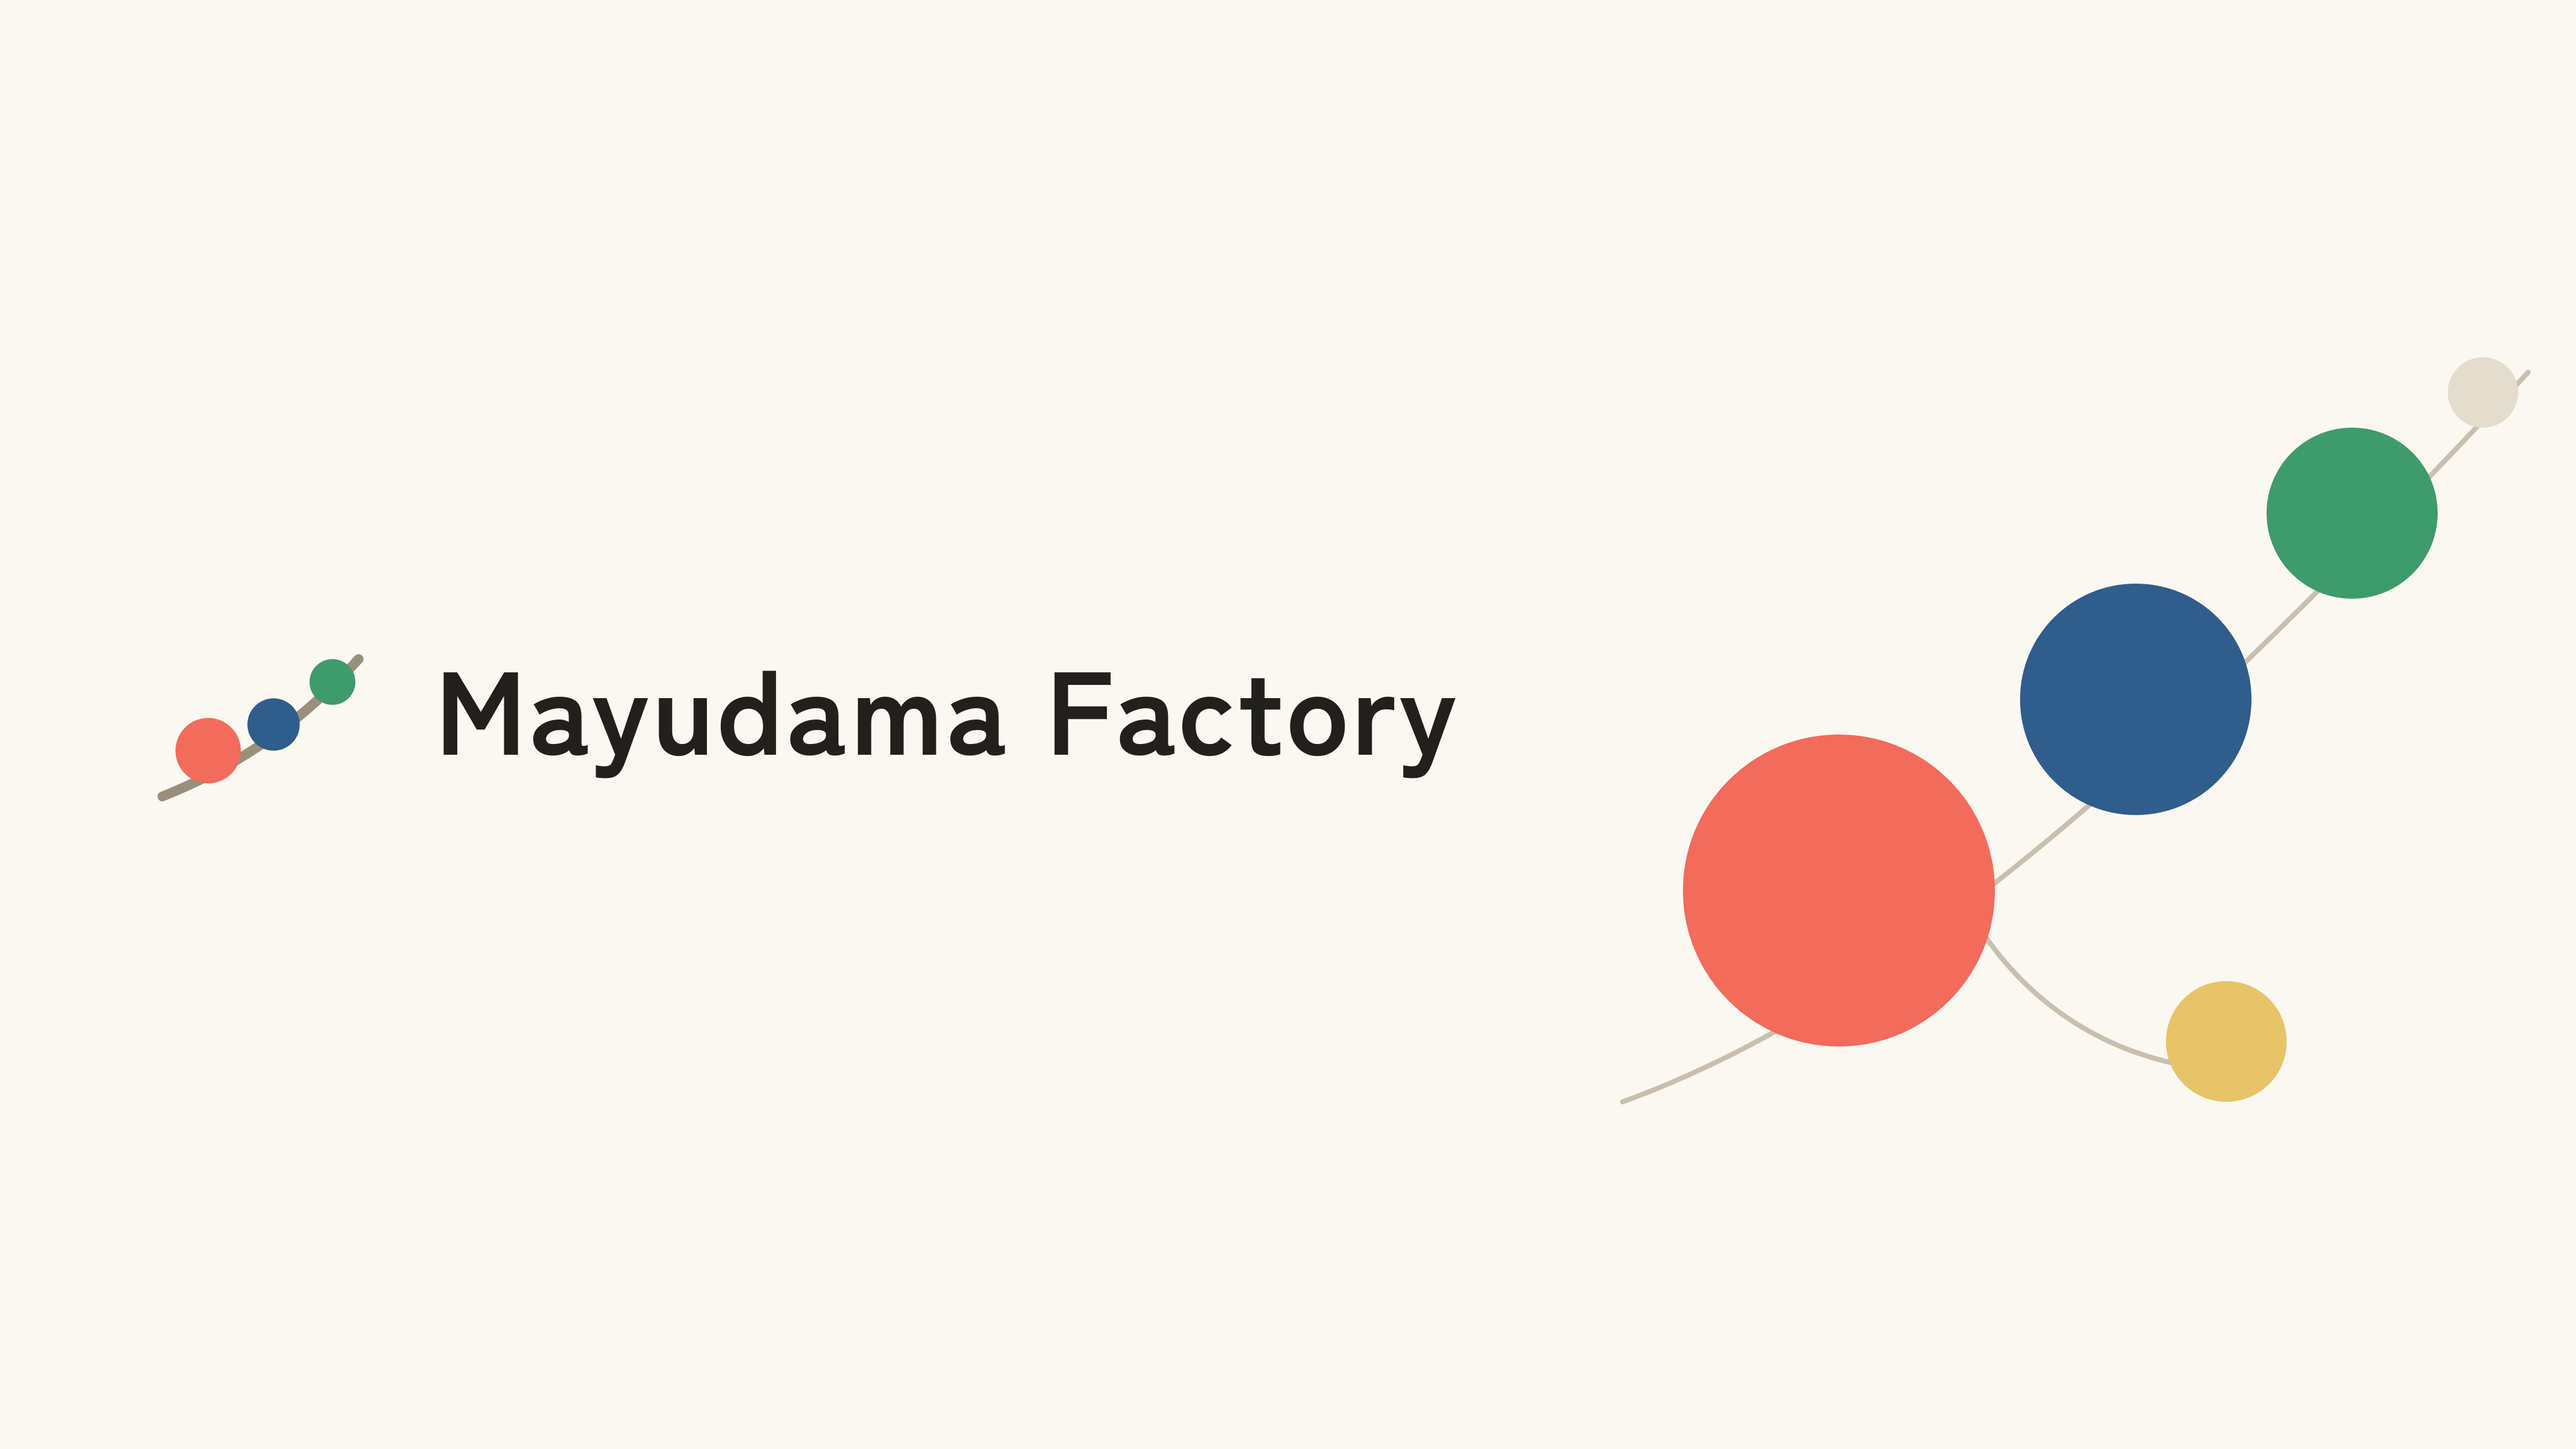
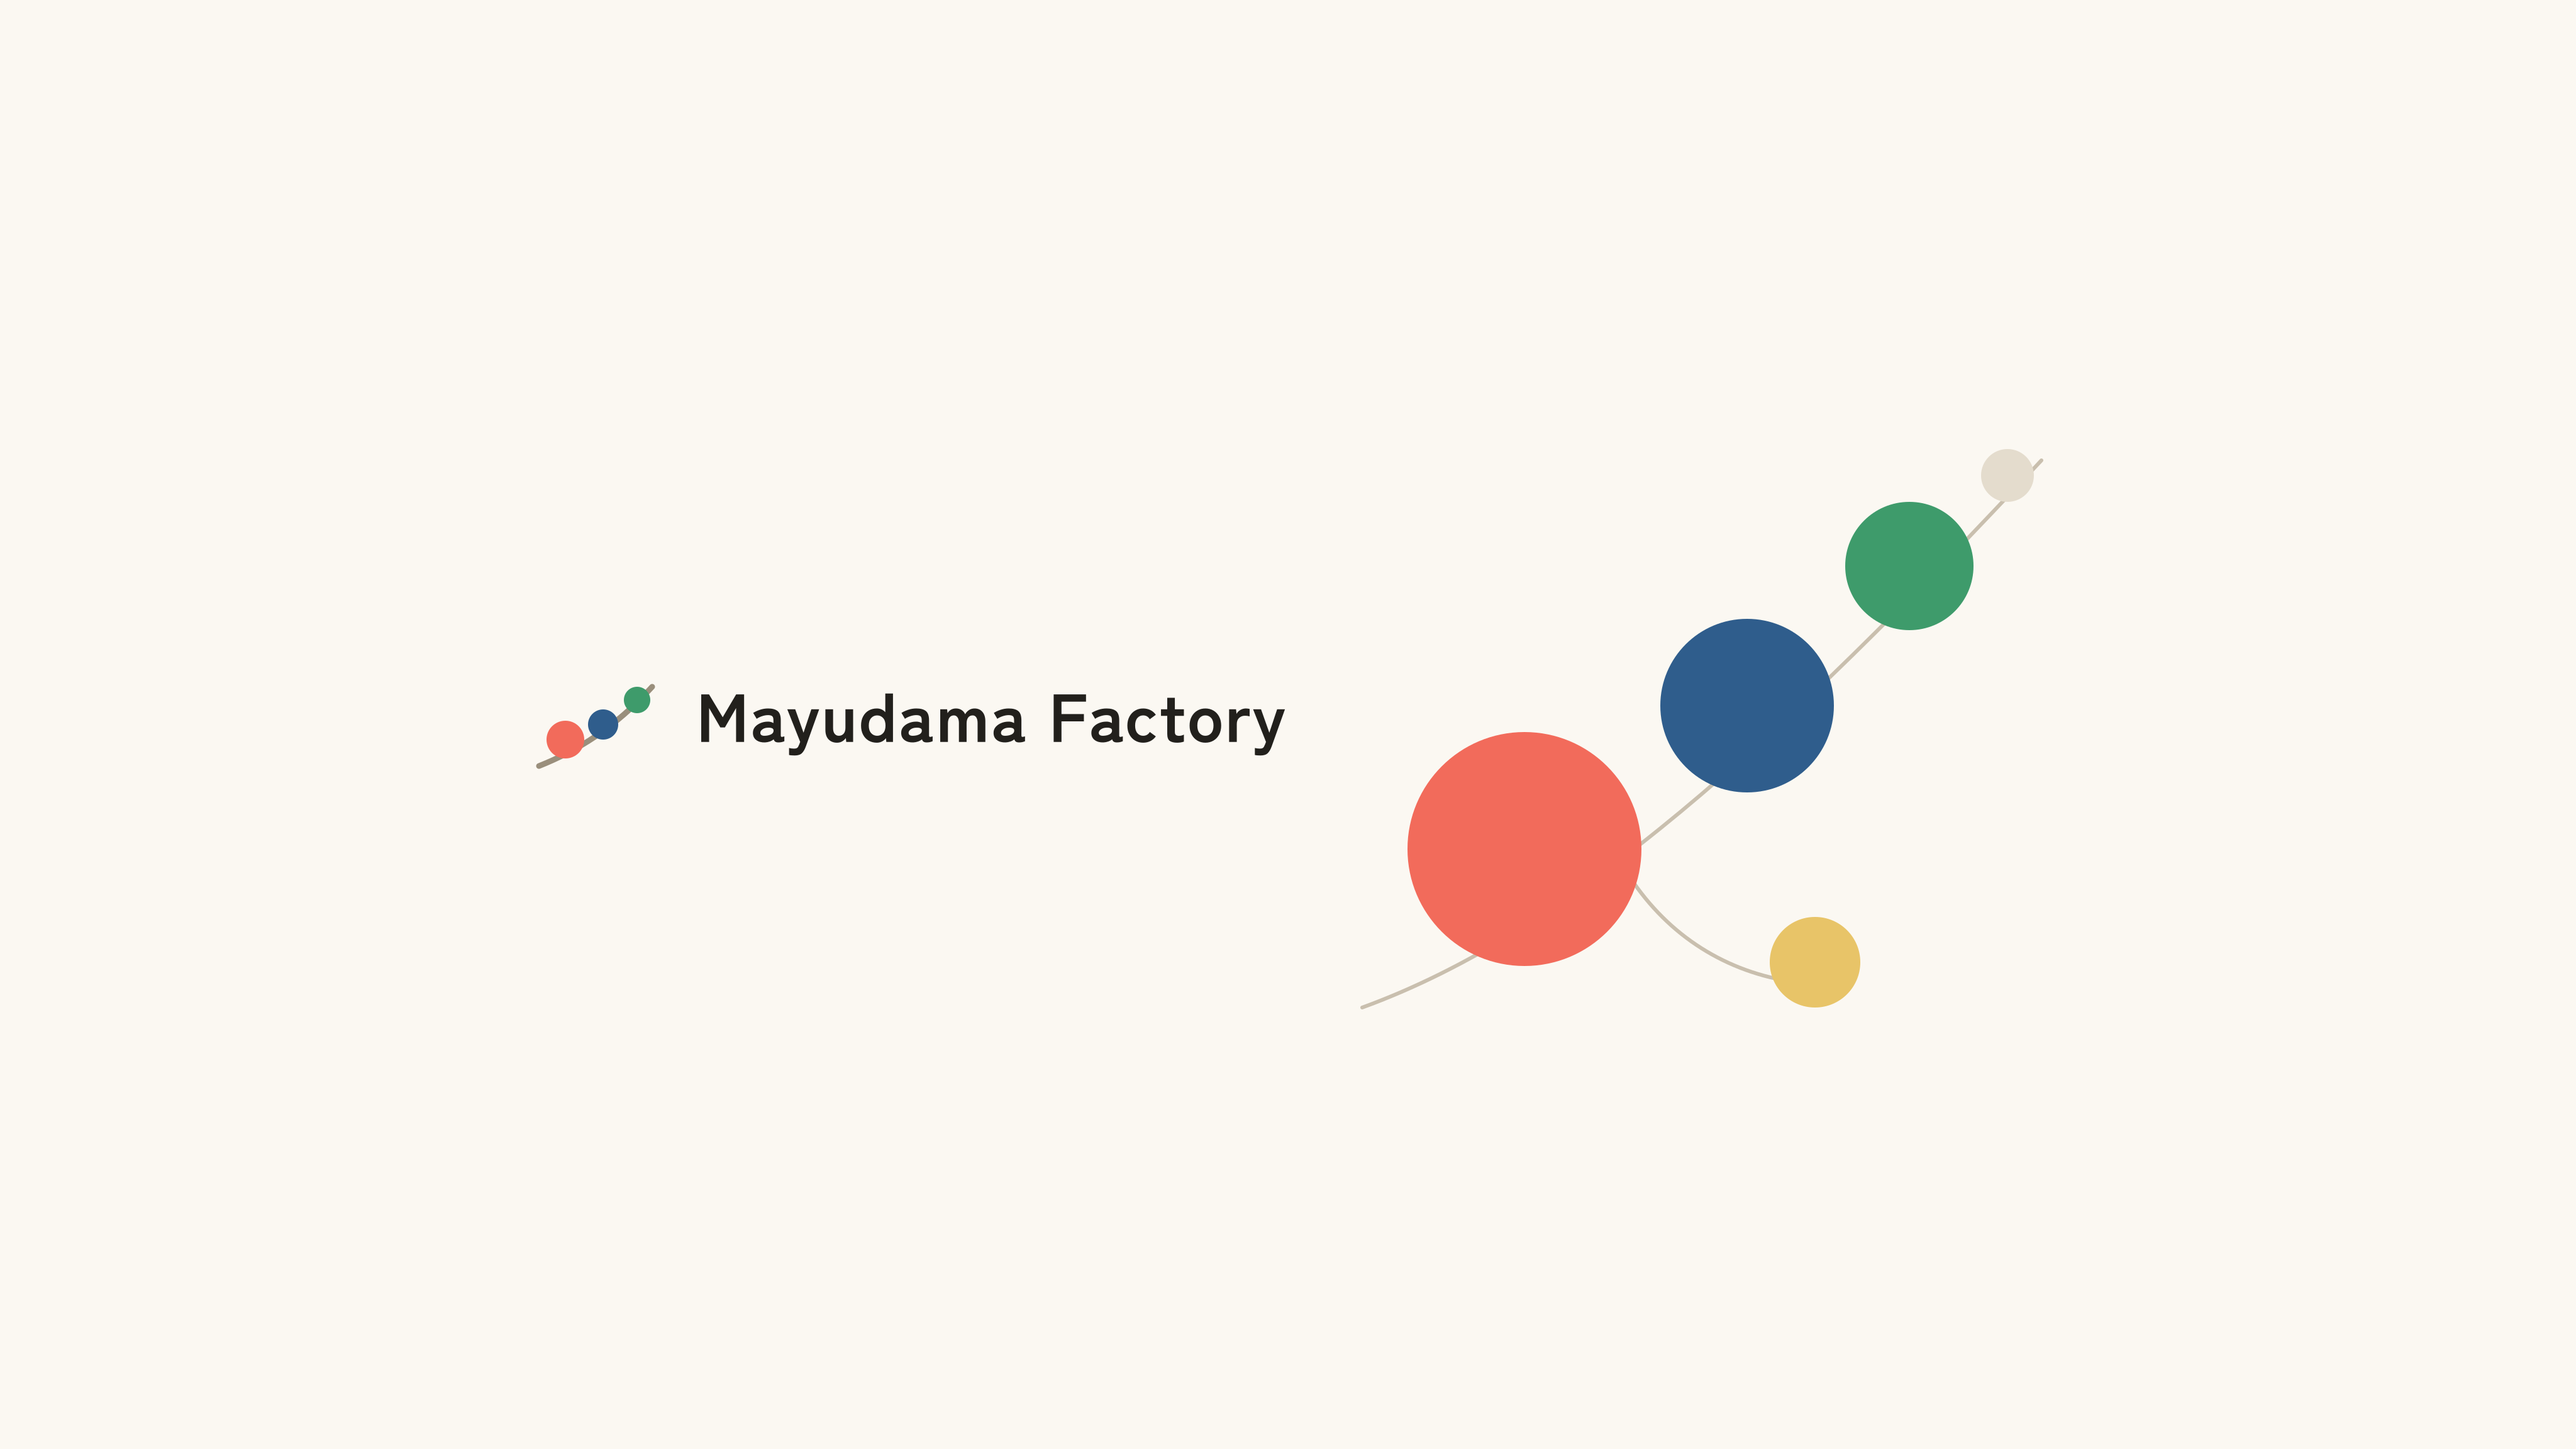
OGP の飾りを見見出しから離し、文章ページのスマホ幅ヘッダーと Google Play ヘッダーを調整
- OGP：飾りを縮めて右へ寄せ、見出しとの間を 64px あけた（右余白 60px）
- 480px 以下の文章ページ：「/」を消し、アプリ名を 14px でロゴ文字の左端にそろえて下に置く
- Google Play ヘッダー：ロゴと飾りを横幅中央 60% に収めた（公式ヘルプに安全範囲の記載なし）

Claude-Session: https://claude.ai/code/session_01BQHxvHdJABYARFyquyAsAX

Changed region(s): [[0.0625, 0.25, 1.0, 0.75], [0.8125, 0.6562, 0.9062, 0.7812]]

diff --git a/assets/site.css b/assets/site.css
@@ -52,6 +52,12 @@ a:hover { text-decoration-thickness: 2px; }
 .brand-sep { color: var(--quiet); font-weight: 400; }
 .brand-app { color: var(--ink); font-weight: 700; text-decoration: none; }
 .crumbs { display: flex; flex-wrap: wrap; align-items: center; gap: 4px 10px; font-size: 15px; }
+/* 480px 以下：「/」を消し、アプリ名をロゴの文字の左端（svg 34px + 余白 10px）にそろえて下に置く */
+@media (max-width: 480px) {
+  .crumbs { flex-direction: column; align-items: flex-start; gap: 0; }
+  .crumbs .brand-sep { display: none; }
+  .crumbs .brand-app { margin: -6px 0 0 44px; font-size: 14px; line-height: 1.4; }
+}
 .site-nav { display: flex; flex-wrap: wrap; align-items: center; gap: 4px 22px; font-size: 15px; }
 .site-nav a { color: var(--ink); text-decoration: none; min-height: 44px; display: inline-flex; align-items: center; }
 .site-nav a:hover { text-decoration: underline; }

diff --git a/brand/README.md b/brand/README.md
@@ -31,4 +31,6 @@
 | `square/mark-1024.png` | 1024×1024 | 汎用（背景 `#FBF8F2`）。アプリストア以外のアイコン用 |
 | `square/mark-1024-transparent.png` | 1024×1024 | 汎用（透過）。GitHub の組織アイコンなど |
 
+Google Play のヘッダー画像：公式ヘルプ（2026-11-17 確認）には寸法・形式（4096×2304、JPG か 24bit PNG・透過なし）の記載だけで、端末ごとに切れる安全範囲の決まりはない。そのため、ロゴと飾りの全体を横幅の中央 60%（x 819〜3277）に収めてある。
+
 サイトのルートにある `favicon.svg`・`favicon.ico`（16/32/48）・`apple-touch-icon.png`（180×180）も、このマークから作ったもの。
